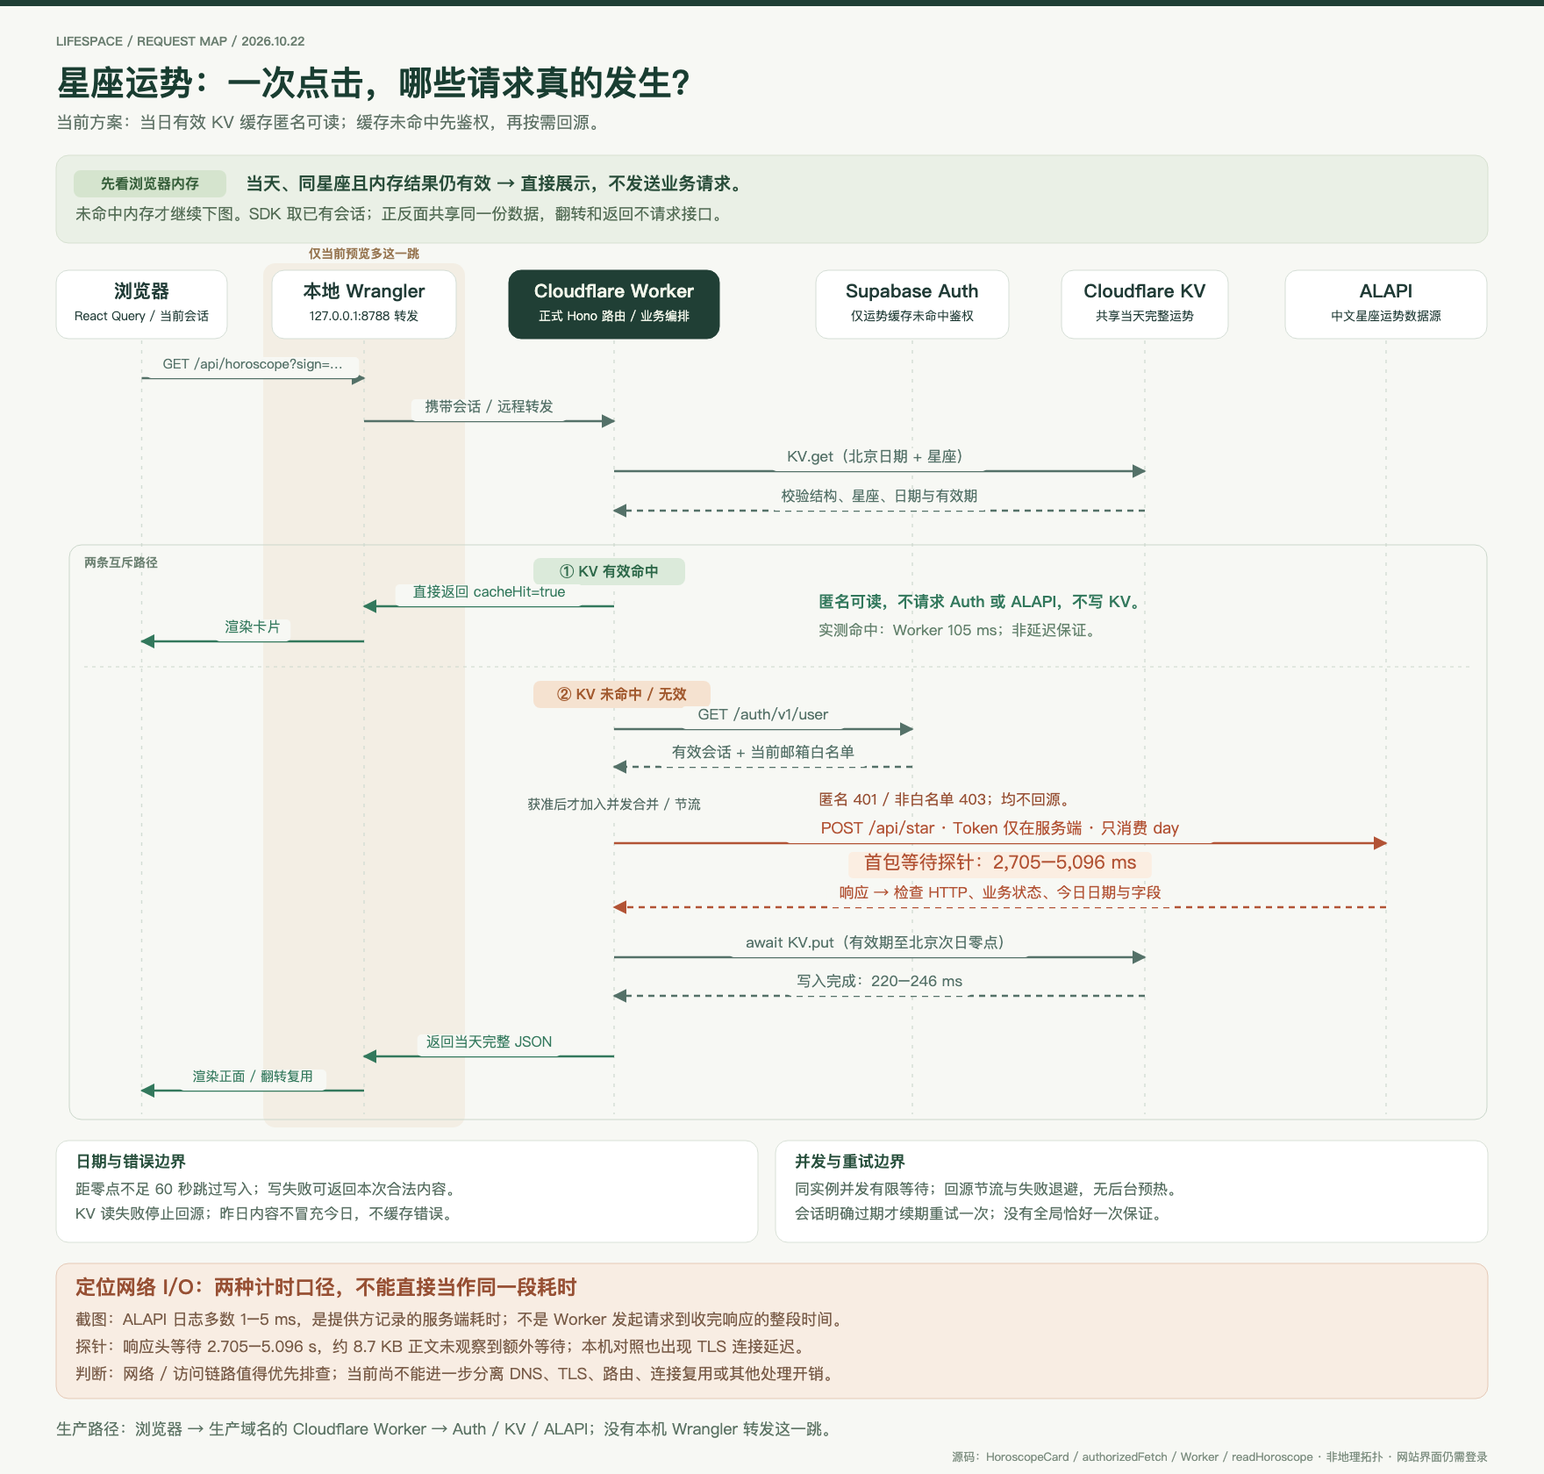
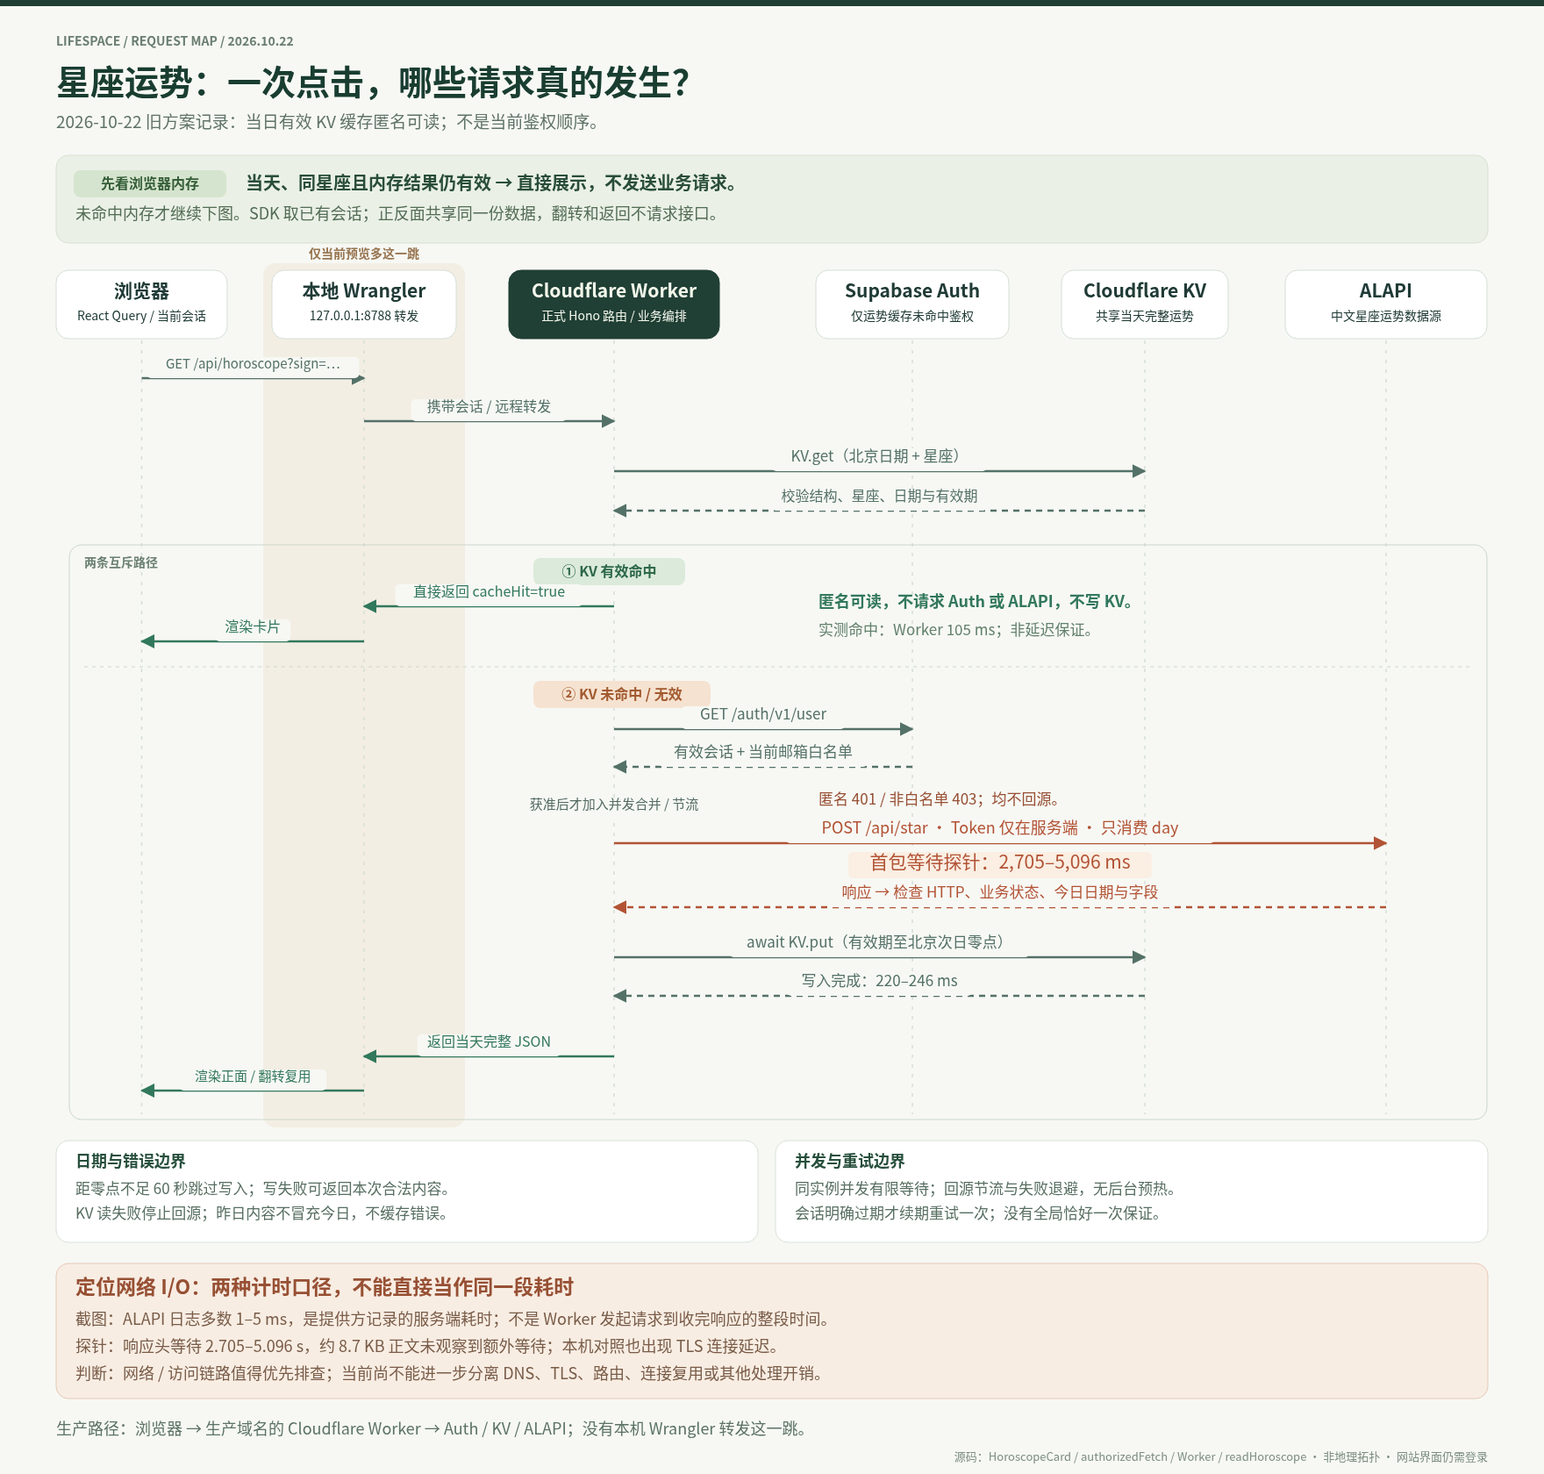
运势读取改为与其他业务接口相同的用户认证 (#161)

diff --git a/worker/horoscope.ts b/worker/horoscope.ts
@@ -5,7 +5,6 @@ import { BodyLimitError, readBoundedBody } from './read-body'
 import { traceUpstreamFailure, traceUpstreamStatus, upstreamFailureType } from './trace'
 
 // 仅包含外部 binding 的必要操作；缺失配置时保持正式服务的未配置状态。
-export type HoroscopeTimings = Partial<Record<'auth' | 'kv_read' | 'alapi' | 'alapi_headers' | 'alapi_body' | 'kv_write' | 'coalesce' | 'total', number>>
 export type HoroscopeEnv = { ALAPI_TOKEN?: string; HOROSCOPE_KV?: Pick<KVNamespace, 'get' | 'put'> }
 type Flight = { until: number; result?: HoroscopeResult; error?: { code: string; message: string; status: ApiError['status'] } }
 type State = { pending: Map<string, Flight>; nextRead: number; blocked?: { until: number; error: ApiError } }
@@ -24,22 +23,18 @@ const daySchema = z.object({
 })
 const envelopeSchema = z.object({ success: z.boolean(), code: z.number(), data: z.unknown().optional() })
 
-async function readAlapi(token: string, sign: ZodiacSign, date: string, timings?: HoroscopeTimings): Promise<Horoscope> {
-  const measure = async <T>(stage: 'alapi_headers' | 'alapi_body', run: () => Promise<T>): Promise<T> => {
-    const started = performance.now()
-    try { return await run() } finally { if (timings) timings[stage] = performance.now() - started }
-  }
+async function readAlapi(token: string, sign: ZodiacSign, date: string): Promise<Horoscope> {
   try {
-    const response = await measure('alapi_headers', () => fetch('https://v3.alapi.cn/api/star', {
+    const response = await fetch('https://v3.alapi.cn/api/star', {
       method: 'POST', headers: { token, 'Content-Type': 'application/json' }, body: JSON.stringify({ star: sign }),
       redirect: 'manual', signal: AbortSignal.timeout(10000),
-    }))
+    })
     if (response.status === 429) { traceUpstreamStatus(response.status); throw failure('HOROSCOPE_RATE_LIMITED', '运势读取过于频繁，请稍后重新读取', 429) }
     if (response.status === 401 || response.status === 403) { traceUpstreamStatus(response.status); throw failure('HOROSCOPE_TOKEN_INVALID', '运势数据源授权失效，请检查服务端配置') }
     if (!response.ok) { traceUpstreamStatus(response.status); throw failure('HOROSCOPE_SOURCE_UNAVAILABLE', '运势数据源暂时不可用') }
     if (!response.body) { traceUpstreamFailure('invalid-response'); throw invalid() }
     const body = response.body
-    const text = await measure('alapi_body', () => readBoundedBody(body, 256000, 10000))
+    const text = await readBoundedBody(body, 256000, 10000)
     const envelope = envelopeSchema.safeParse(JSON.parse(text))
     if (!envelope.success) { traceUpstreamFailure('invalid-response'); throw invalid() }
     const value = envelope.data
@@ -75,11 +70,7 @@ async function readAlapi(token: string, sign: ZodiacSign, date: string, timings?
   }
 }
 
-export async function readHoroscope(env: HoroscopeEnv, params: URLSearchParams, authorizeRefresh: () => Promise<void>, timings?: HoroscopeTimings): Promise<HoroscopeResult> {
-  const measure = async <T>(stage: keyof HoroscopeTimings, run: () => Promise<T>): Promise<T> => {
-    const started = performance.now()
-    try { return await run() } finally { if (timings) timings[stage] = performance.now() - started }
-  }
+export async function readHoroscope(env: HoroscopeEnv, params: URLSearchParams): Promise<HoroscopeResult> {
   const selected = signSchema.safeParse(params.get('sign'))
   if (!selected.success || [...params.keys()].some(key => key !== 'sign') || params.getAll('sign').length !== 1) throw new ApiError('HOROSCOPE_SIGN_INVALID', '请选择有效星座', 400)
   const kv = env.HOROSCOPE_KV
@@ -89,15 +80,12 @@ export async function readHoroscope(env: HoroscopeEnv, params: URLSearchParams, 
   const key = `horoscope:v1:alapi:Asia-Shanghai:${date}:${sign}`
   let cached: unknown
   try {
-    const stored = await measure('kv_read', () => kv.get(key))
+    const stored = await kv.get(key)
     if (stored && stored.length <= 256000) { try { cached = JSON.parse(stored) } catch { /* 损坏缓存按未命中处理。 */ } }
   } catch { throw failure('HOROSCOPE_CACHE_UNAVAILABLE', '运势缓存暂时不可用，请稍后重新读取', 503) }
   if (beijingDate(Date.now()) !== date) throw notUpdated()
   const decoded = horoscopeSchema.safeParse(cached)
   if (decoded.success && isCurrentHoroscope(decoded.data, sign, Date.now())) return { ...decoded.data, cacheHit: true }
-  // 只有有效 KV 内容可以公开；鉴权前不加入在途回源，也不更改实例限流状态。
-  await authorizeRefresh()
-  if (beijingDate(Date.now()) !== date) throw notUpdated()
   const token = env.ALAPI_TOKEN
   if (!token?.trim()) throw failure('HOROSCOPE_NOT_CONFIGURED', '服务尚未配置', 503)
   let state = states.get(kv)
@@ -106,7 +94,7 @@ export async function readHoroscope(env: HoroscopeEnv, params: URLSearchParams, 
   const existing = state.pending.get(key)
   if (existing) {
     // 等待属于当前请求；首请求取消或耗时较长时有限退出，由使用者重新读取。
-    await measure('coalesce', () => new Promise<void>(resolve => setTimeout(resolve, 1100)))
+    await new Promise<void>(resolve => setTimeout(resolve, 1100))
     if (beijingDate(Date.now()) !== date) throw notUpdated()
     if (existing.result && isCurrentHoroscope(existing.result, sign, Date.now())) return existing.result
     if (existing.error) throw new ApiError(existing.error.code, existing.error.message, existing.error.status)
@@ -120,7 +108,7 @@ export async function readHoroscope(env: HoroscopeEnv, params: URLSearchParams, 
     if (Date.now() < currentState.nextRead) throw failure('HOROSCOPE_RATE_LIMITED', '运势读取过于频繁，请稍后重新读取', 429)
     currentState.nextRead = Date.now() + 1100
     let data: Horoscope
-    try { data = await measure('alapi', () => readAlapi(token, sign, date, timings)) }
+    try { data = await readAlapi(token, sign, date) }
     catch (error) {
       const safeError = error instanceof ApiError ? error : invalid()
       currentState.blocked = { until: safeError.code === 'HOROSCOPE_QUOTA_EXHAUSTED' ? horoscopeDeadline(date) : Date.now() + 10000, error: safeError }
@@ -128,7 +116,7 @@ export async function readHoroscope(env: HoroscopeEnv, params: URLSearchParams, 
     }
     let warning: string | undefined
     if (horoscopeDeadline(date) - Date.now() >= 60000) {
-      try { await measure('kv_write', () => kv.put(key, JSON.stringify(data), { expiration: horoscopeDeadline(date) / 1000 })) }
+      try { await kv.put(key, JSON.stringify(data), { expiration: horoscopeDeadline(date) / 1000 }) }
       catch {
         warning = '本次运势已获取，缓存暂存失败'
         currentState.blocked = { until: Date.now() + 60000, error: failure('HOROSCOPE_CACHE_UNAVAILABLE', '运势缓存暂时不可用，请稍后重新读取', 503) }

diff --git a/worker/index.ts b/worker/index.ts
@@ -1,7 +1,7 @@
 import { Hono } from 'hono'
 import { listLedger, detailLedger, createLedger, createLedgerEntry, createLedgerRefund, createLedgerTransfer, refundLedger, previewLedgerDelete, deleteLedger, listLedgerAccounts, readLedgerAccounts, createLedgerAccount, updateLedgerAccount } from './ledger'
 import { readTaskList, readRewardSource, readGrowth, readTaskHistory, readMigrationOptions, readPlanning, previewPlanning, commandPlanning } from './adventure/planning'
-import { readHoroscope, type HoroscopeTimings } from './horoscope'
+import { readHoroscope } from './horoscope'
 import { readTasks } from './tasks'
 import { ApiError, apiErrorBody } from './upstream'
 import { searchLocations } from './weather'
@@ -15,21 +15,10 @@ import { verifyAgentIdentity } from './agent-auth'
 import { handleAgentMcp } from './agent-mcp'
 import { beginTrace, traceErrorCode, withRootSpan } from './trace'
 
-const app = new Hono<{ Bindings: AuthEnv; Variables: { identity: Identity; horoscopeTimings?: HoroscopeTimings; horoscopeCacheHit?: boolean } }>()
+const app = new Hono<{ Bindings: AuthEnv; Variables: { identity: Identity } }>()
 app.use('/api/*', async (c, next) => {
   c.header('Cache-Control', 'no-store')
   await withRootSpan(beginTrace(c), () => next())
-})
-app.use('/api/horoscope', async (c, next) => {
-  const started = performance.now()
-  const timings: HoroscopeTimings = {}
-  c.set('horoscopeTimings', timings)
-  try { await next() } finally {
-    timings.total = performance.now() - started
-    const elapsed = Object.fromEntries(Object.entries(timings).map(([stage, duration]) => [stage, Math.round(duration * 10) / 10]))
-    c.header('Server-Timing', Object.entries(elapsed).map(([stage, duration]) => `${stage};dur=${duration}`).join(', '))
-    console.info(JSON.stringify({ event: 'horoscope_timing', status: c.res.status, cacheHit: c.get('horoscopeCacheHit') ?? null, durationsMs: elapsed }))
-  }
 })
 app.get('/api/auth/config', c => c.json(publicConfig(c.env)))
 app.post('/api/auth/hooks/before-user-created', async c => {
@@ -40,16 +29,6 @@ app.post('/api/auth/hooks/before-user-created', async c => {
     traceErrorCode(error instanceof ApiError ? error.code : 'INTERNAL_ERROR', c.req.path, c)
     return c.json({ error: { http_code: 503, message: '注册服务暂时不可用' } }, 503)
   }
-})
-app.get('/api/horoscope', async c => {
-  const timings = c.get('horoscopeTimings')
-  const result = await readHoroscope(c.env, new URL(c.req.url).searchParams, async () => {
-    const started = performance.now()
-    try { await verifyIdentity(c.env, c.req.header('Authorization'), c.req.path) }
-    finally { if (timings) timings.auth = performance.now() - started }
-  }, timings)
-  c.set('horoscopeCacheHit', result.cacheHit)
-  return c.json(result)
 })
 app.use('/api/*', async (c, next) => {
   if (c.req.path === '/api/agent/mcp') {
@@ -70,6 +49,7 @@ app.all('/api/agent/mcp', async c => {
   return response
 })
 app.get('/api/auth/me', c => c.json({ user: c.get('identity') }))
+app.get('/api/horoscope', async c => c.json(await readHoroscope(c.env, new URL(c.req.url).searchParams)))
 app.get('/api/ledger/entries', listLedger)
 app.get('/api/ledger/accounts', listLedgerAccounts)
 app.post('/api/ledger/accounts', createLedgerAccount)

diff --git a/tests/api/worker-trace.test.ts b/tests/api/worker-trace.test.ts
@@ -40,6 +40,39 @@ test('认证成功后把身份、会话和路径写到根 span，且不改变响
   forbidSecrets()
 })
 
+test('运势缓存命中仍在认证成功后写入身份、会话和路径', async () => {
+  vi.useFakeTimers(); vi.setSystemTime(new Date('2026-10-22T08:00:00Z'))
+  const cached = {
+    version: 1, source: 'ALAPI', sign: 'libra', dataDate: '2026-10-22',
+    fetchedAt: '2026-10-22T01:00:00.000Z', validUntil: '2026-10-22T16:00:00.000Z',
+    scores: { all: 85, love: null, work: null, money: null, health: null },
+    texts: { all: '稳住节奏，踏实推进。', love: null, work: null, money: null, health: null },
+    lucky: { color: null, number: null, sign: null }, notice: null, yi: null, ji: null,
+  }
+  const upstream = vi.fn(async () => Response.json(user))
+  vi.stubGlobal('fetch', upstream)
+  const kv = { get: vi.fn(async () => JSON.stringify(cached)), put: vi.fn() }
+  try {
+    const response = await app.request('/api/horoscope?sign=libra', { headers: { Authorization: `Bearer ${token}` } }, { ...env, ALAPI_TOKEN: 'test-horoscope-credential', HOROSCOPE_KV: kv as unknown as KVNamespace })
+    expect(response.status).toBe(200)
+    expect(await response.json()).toMatchObject({ cacheHit: true, sign: 'libra' })
+    expect(upstream).toHaveBeenCalledTimes(1)
+    expect(kv.put).not.toHaveBeenCalled()
+    expect(span.attributes).toEqual({ 'user.id': userId, 'session.id': sessionId, 'http.route': '/api/horoscope' })
+    forbidSecrets()
+  } finally { vi.useRealTimers() }
+})
+
+test('未登录读取运势只写错误码和路径，且不读取缓存', async () => {
+  const kv = { get: vi.fn(), put: vi.fn() }
+  const response = await app.request('/api/horoscope?sign=libra&do-not-trace=1', {}, { ...env, HOROSCOPE_KV: kv as unknown as KVNamespace })
+  expect(response.status).toBe(401)
+  expect(await response.json()).toEqual({ error: { code: 'AUTH_REQUIRED', message: '请先登录' } })
+  expect(kv.get).not.toHaveBeenCalled()
+  expect(span.attributes).toEqual({ 'error.code': 'AUTH_REQUIRED', 'http.route': '/api/horoscope' })
+  forbidSecrets()
+})
+
 test('没有活动 span 时认证响应保持不变', async () => {
   clearTraceSpan()
   vi.stubGlobal('fetch', vi.fn(async () => Response.json(user)))

diff --git a/docs/design/horoscope/draw-request-flow.py b/docs/design/horoscope/draw-request-flow.py
@@ -3,8 +3,8 @@ from pathlib import Path
 
 W,H=1760,1680
 svg=Element('svg', {'xmlns':'http://www.w3.org/2000/svg','width':str(W),'height':str(H),'viewBox':f'0 0 {W} {H}','role':'img','aria-labelledby':'title desc'})
-SubElement(svg,'title',{'id':'title'}).text='LifeSpace 星座运势当前请求流程与实测耗时'
-SubElement(svg,'desc',{'id':'desc'}).text='浏览器内存未命中时，请求经本地 Wrangler 转发至 Cloudflare Worker，先读取 KV；有效当日缓存匿名返回，未命中才验证 Supabase 会话和白名单，之后调用 ALAPI，校验内容并等待 KV 写入后返回。红色标出实测主要等待阶段。'
+SubElement(svg,'title',{'id':'title'}).text='LifeSpace 星座运势 2026-10-22 请求流程与实测耗时'
+SubElement(svg,'desc',{'id':'desc'}).text='这是 2026-10-22 的旧方案记录，不是当前鉴权顺序。当时浏览器内存未命中后先读取 KV；有效当日缓存匿名返回，未命中才验证 Supabase 会话和白名单，之后调用 ALAPI。红色标出当时实测的主要等待阶段。'
 def node(tag,attrs=None,parent=svg): return SubElement(parent,tag,{k:str(v) for k,v in (attrs or {}).items()})
 def rect(x,y,w,h,fill='#ffffff',stroke='none',radius=14,parent=svg):
  return node('rect',{'x':x,'y':y,'width':w,'height':h,'rx':radius,'fill':fill,'stroke':stroke},parent)
@@ -41,7 +41,7 @@ rect(0,0,W,H,'#f7f8f4',radius=0)
 rect(0,0,W,7,'#203f35',radius=0)
 text(64,52,'LIFESPACE  /  REQUEST MAP  /  2026.10.22',14,'#6a7e70',600)
 text(64,108,'星座运势：一次点击，哪些请求真的发生？',39,'#193d31',650)
-text(64,146,'当前方案：当日有效 KV 缓存匿名可读；缓存未命中先鉴权，再按需回源。',19,'#607367')
+text(64,146,'2026-10-22 旧方案记录：当日有效 KV 缓存匿名可读；不是当前鉴权顺序。',19,'#607367')
 rect(64,177,1632,100,'#eaf0e6','#d7e1d1')
 badge(84,194,'先看浏览器内存','#d5e4ce','#345d38',174)
 text(280,216,'当天、同星座且内存结果仍有效 → 直接展示，不发送业务请求。',20,'#294d3a',550)

diff --git a/docs/horoscope-development.md b/docs/horoscope-development.md
@@ -6,7 +6,7 @@
 
 - 首页一张运势卡片，十二个名称与单色星座图标独立打开；首页不获取运势。
 - 二级卡片正面显示日期、五项指数、幸运信息与来源，背面显示完整文字、提示和宜忌；翻转不请求接口。
-- `GET /api/horoscope?sign=libra` 只接受唯一合法 `sign` 参数；有效当日 KV 缓存匿名可读，命中不请求 Auth。未命中仍须在线登录和白名单检查通过，再加入在途合并或请求 ALAPI。网站界面及其他 API 保持既有准入规则。
+- `GET /api/horoscope?sign=libra` 只接受唯一合法 `sign` 参数，且无论缓存是否命中都先完成与其他业务接口相同的在线登录和白名单检查。未通过时不读取 KV、不回源、不写缓存；通过后未命中才加入在途合并或请求 ALAPI。
 - ALAPI 成功内容标准化后按 `Asia/Shanghai` 日期与星座存入 KV，绝对期限为次日北京时间零点；不足 60 秒不写入。
 - 缓存、上游、浏览器都校验内容归属与日期。跨日清除旧展示；昨日内容显示“今日运势暂未更新”。
 - 缓存读取失败不回源；写入失败保留本次内容并进入 60 秒退避。实例内有限等待后复用已完成的普通数据，首请求未完成则返回忙碌状态，不共享在途 I/O Promise；回源间隔至少 1.1 秒；一般上游失败退避 10 秒，日额度耗尽保守退避至下一个北京日期。不承诺跨实例严格限流或仅回源一次。
@@ -27,7 +27,7 @@ npx vite --config vite.horoscope-preview.config.ts
 ## 核验方法
 
 - 接口：`npx vitest run tests/api/horoscope.test.ts`；通过真实应用路由与鉴权，外部 Auth、ALAPI 和 KV 使用替身。
-- 浏览器：`npx playwright test tests/browser/horoscope.test.ts`；包含浏览器→本地 HTTP→真实 Worker 应用路由及鉴权→受控 ALAPI/KV 的链路，重载后核对第二次 KV 读取与一次上游调用。
+- 浏览器：`npx playwright test tests/browser/horoscope.test.ts`；包含浏览器→本地 HTTP→真实 Worker 应用路由及鉴权→受控 ALAPI/KV 的链路，重载后核对第二次 KV 读取、第二次鉴权与一次上游调用。
 - 整体检查使用项目既有密钥扫描、API、安全、类型、构建及浏览器回归。截图见 `docs/evidence/horoscope-dev/`，仅为开发预览。
 
 ## 核验结果

diff --git a/docs/requirements.md b/docs/requirements.md
@@ -6,7 +6,7 @@
 
 提供首页、新闻与人生冒险三个业务页面。每日首页提供 Google 搜索和时间、天气、任务、日历、DNSHE 域名卡片，支持电脑与手机浏览器查看。首页信息为只读展示，卡片支持点击交互；人生冒险支持个人规划与成长数据写入。
 
-业务界面与 API 采用邮箱白名单及 Supabase Auth 准入，获准使用者共用首页展示数据，人生冒险数据按账户隔离。星座运势接口仅将有效当日 KV 缓存开放为匿名读取；缓存未命中仍须登录并通过白名单后才能请求 ALAPI，其余业务接口保持逐次在线鉴权。注册、登录、恢复、会话撤销和 B 页面验收见 [认证规格 #33](https://github.com/PancrasDuan/lifespace/issues/33)。邮件渠道接入另行验收。
+业务界面与 API 采用邮箱白名单及 Supabase Auth 准入，获准使用者共用首页展示数据，人生冒险数据按账户隔离。星座运势接口与其余业务接口一样逐次在线鉴权，缓存命中也须登录并通过白名单。注册、登录、恢复、会话撤销和 B 页面验收见 [认证规格 #33](https://github.com/PancrasDuan/lifespace/issues/33)。邮件渠道接入另行验收。
 
 ## 页面结构
 

diff --git a/README.md b/README.md
@@ -2,7 +2,7 @@
 
 个人日常工作台，包含首页、新闻、人生冒险与个人账单。首页提供：Google 搜索、本地与海外时间、Open-Meteo 天气与预报、Supabase 今日待办、本地黄历、DNSHE 域名信息及服务状态。采用浅色布局；首页卡片与详情只读，人生冒险提供个人规划与成长记录，财务页管理本人收支。
 
-访问采用邮箱白名单与 Supabase Auth，前端 SDK 管理登录及续期，Worker 在线验证会话和准入。星座运势的有效当日 KV 缓存允许匿名读取，未命中仍须登录并通过白名单后才能回源；其余业务接口逐次鉴权。配置及真实邮件验收见 [认证接入](docs/auth-setup.md)，职责与撤销边界见 [认证决策](docs/adr/0001-supabase-auth.md)。
+访问采用邮箱白名单与 Supabase Auth，前端 SDK 管理登录及续期，Worker 在线验证会话和准入。星座运势与其余业务接口一样逐次鉴权，缓存命中也不再匿名读取。配置及真实邮件验收见 [认证接入](docs/auth-setup.md)，职责与撤销边界见 [认证决策](docs/adr/0001-supabase-auth.md)。
 
 线上地址：[LifeSpace](https://lifespace.onepeace.cc.cd/)。
 
